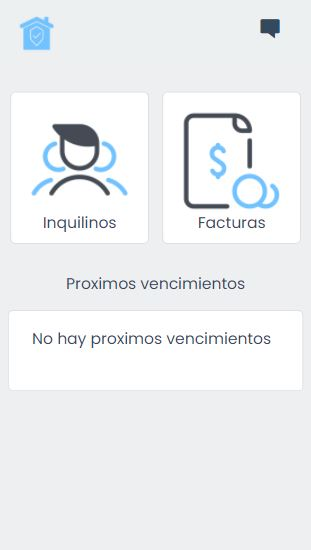
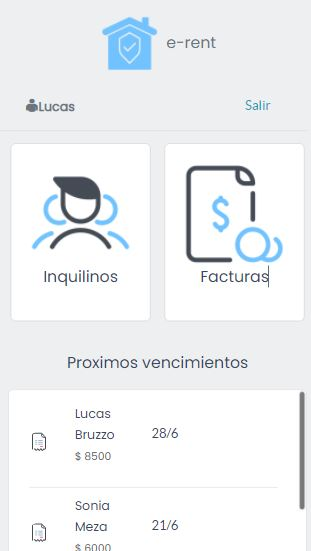
vistas actualizadas

diff --git a/controllers/userController.js b/controllers/userController.js
@@ -10,6 +10,17 @@ require('dotenv').config();
 const secret = process.env.SECRET;
 
   module.exports = (app) => {
+    app.get('/logout', (req,res) => {
+      if(req.session.logged) {
+        req.session.logged = false;
+        req.session.token = null;
+        req.session.role = null;
+        req.session.name = null;
+      }
+
+      res.redirect('./login')
+    });
+
     app.route('/login')
     .get( async (req, res) => {  
       if(req.session.logged)  return res.redirect('./');

diff --git a/README.md b/README.md
@@ -19,6 +19,13 @@ La vista inicial pretende dar accesibilidad, dejando a la mano funciones especif
  <img src="./docs/images/inquilinosview.JPG"/>
  <img src="./docs/images/inquilinosview-mobile.JPG"/>
 
+# Vista perfil inquilino
+ <img src="./docs/images/inquilinoView.JPG"/>
+
+# Vista de Facturas
+ <img src="./docs/images/invoicesView.JPG"/>
+
+
 ## Formulario de registro de contrato/inquilino
  <img src="./docs/images/newcontract.JPG"/>
  <img src="./docs/images/newcontract-mobile.JPG"/>
